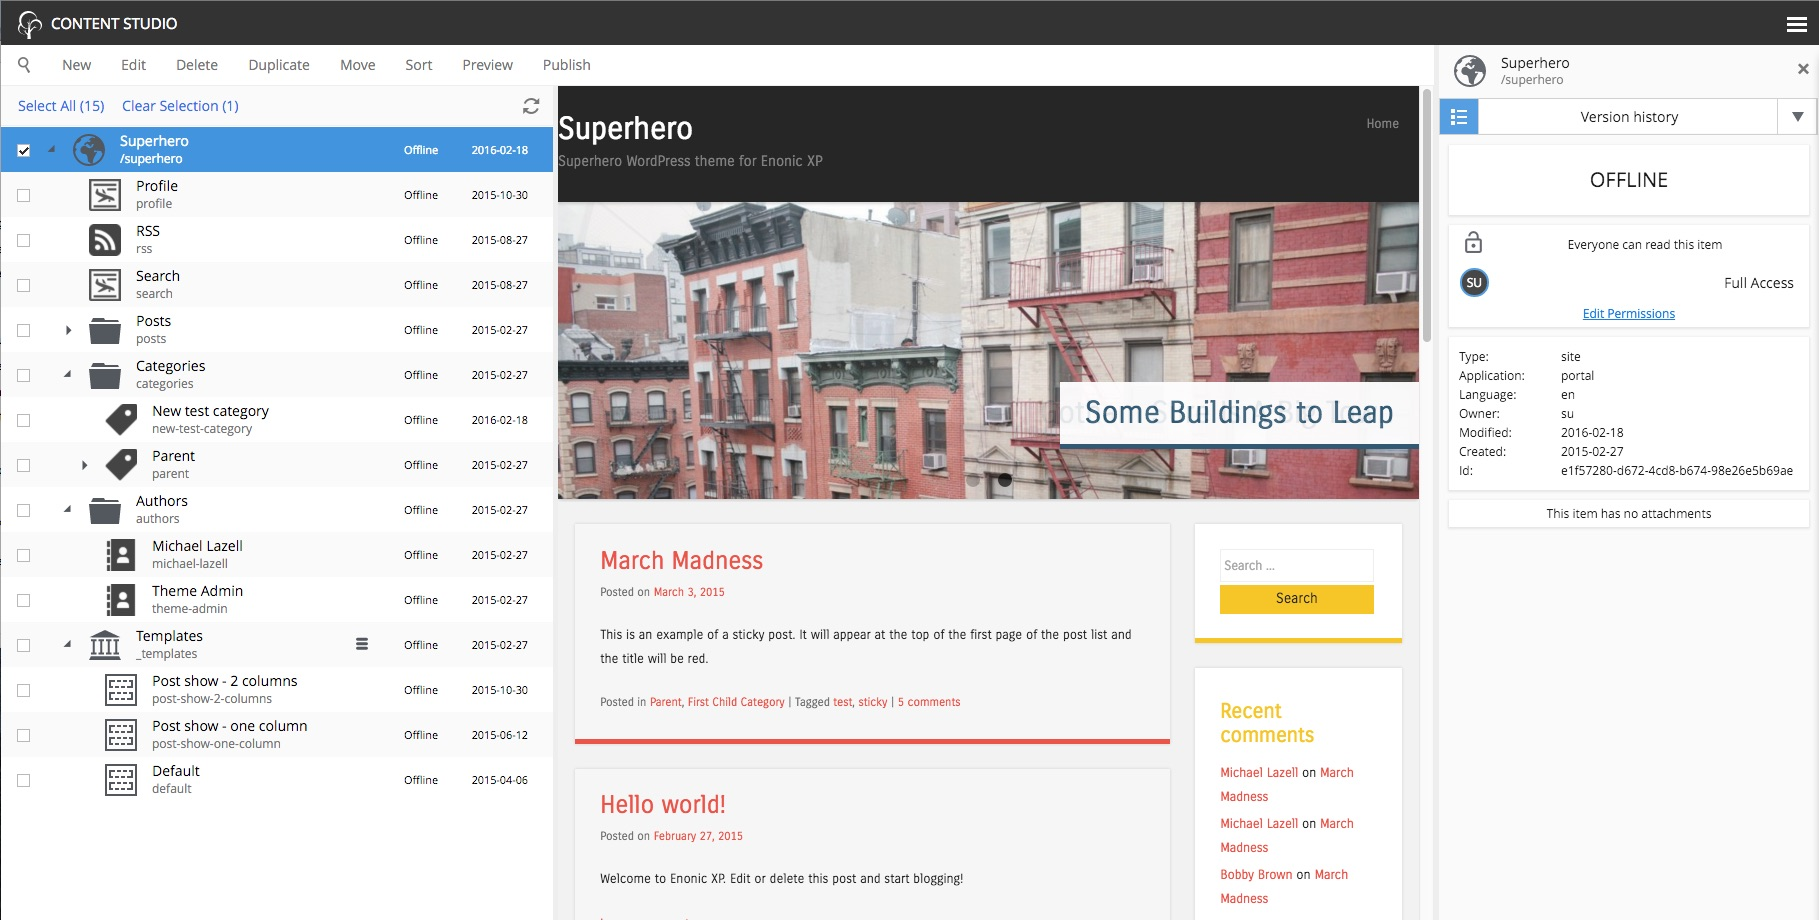
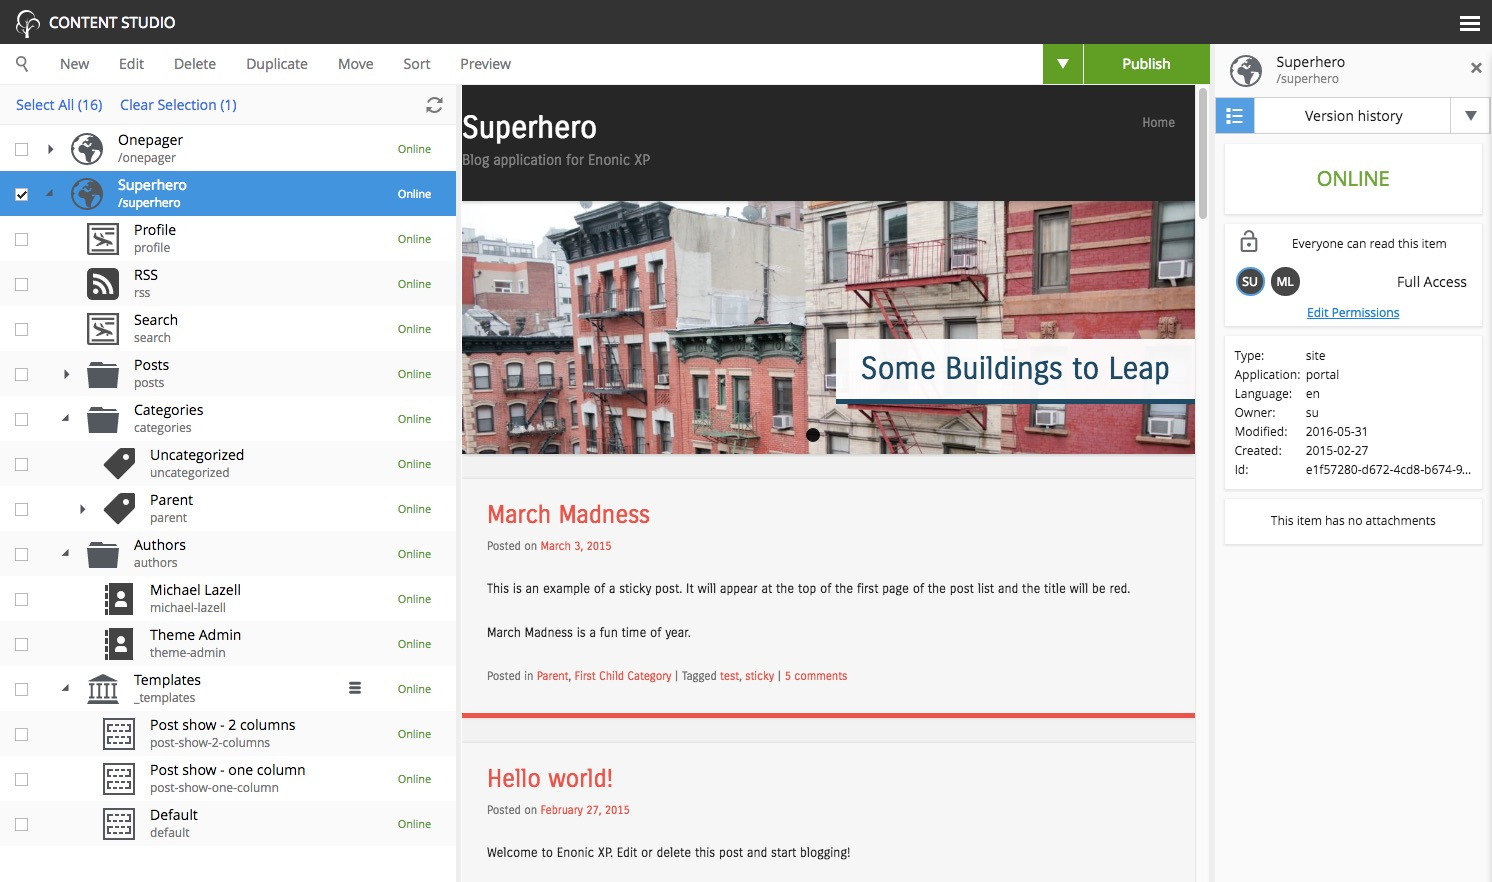
Update content studio publishing page and various images and minor changes.

diff --git a/doc/admintools/contentstudio/publish.rst b/doc/admintools/contentstudio/publish.rst
@@ -13,22 +13,22 @@ Draft and master branch
 -----------------------
 
 All content created with the Content Studio exists in the **draft** branch with the status **offline**. Content in the draft branch can be
-edited, changed, and previewed until it is ready to go online. When a content is published, it is copied from the **draft** branch to the
-**master** branch. Only content in the master branch can be accessed by others outside of the Content Studio, subject to the contents'
-security settings.
+edited, changed, and previewed until it is ready to go online. Every time a content is saved with changes, a new version is created. (See
+:ref:`version_history`) When a content is published, the active version is copied from the **draft** branch to the **master** branch. Only
+content in the master branch can be accessed by others outside of the Content Studio, subject to the contents' security settings.
 
 Content status
 --------------
 
 Published content will have the status **online** while content that has not yet been published will be **offline**. When changes to a
-published content are saved, its status will be **modified** and this content will need to be published again before the changes will be
-visible outside of the Content Studio. When a published content is "deleted" then its status will be **pending delete** and it will still be
-visible outside of the Content Studio. Content that is pending delete must be published before it is actually removed from the master
-branch.
+published content are saved, the new version becomes the active version but the version that is online is not changed. The status of the
+new active version will be **modified** and this content will need to be published again before the changes will be visible outside of the
+Content Studio.
 
-.. warning:: Once a content is published, it cannot be taken offline without deleting it. If deleting the content is not a good option, it
-   could be moved to an archive folder outside of the site content. Or the content security could be altered to make it visible only to
-   administrators.
+When a published content is "deleted", the "Delete item" dialogue offers a checkbox to "Instantly delete published items". If this box is
+not checked then the content's status will be **pending delete** and it will still be visible outside of the Content Studio. Content that is
+pending delete must be published or "instantly deleted" before it is actually removed from the master branch.
+
 
 Publishing wizard
 -----------------
@@ -42,4 +42,13 @@ with the selected content are listed in the publishing wizard.
 .. image:: images/publishing-wizard.jpg
 
 If the selected content has children then these items can be included by checking the box labeled "Include child items". The total number of
-items that will be published is displayed on the **Publish** button.
+items that will be published is displayed on the **Publish** button. The green "Publish" button has a menu option for "Publish tree" which
+simply opens the dialogue with the "Include child items" box checked.
+
+Previously published content can be taken offline with the "Unpublish" feature. The "Unpublish" dialogue can be opened from the Publish menu
+in the toolbar or by right-clicking the content in the tree grid and selecting "Unpublish" from the context menu. All of the content's
+children will be listed and unpublished along with the selected content. The total number of content items that will be taken offline will
+appear in parenthesis in the red "Unpublish" button at the bottom of the dialogue.
+
+.. image:: images/unpublish-dialogue.jpg
+

diff --git a/doc/admintools/contentstudio/inspection-panel.rst b/doc/admintools/contentstudio/inspection-panel.rst
@@ -20,7 +20,8 @@ placeholder.
 For example, to add a part component called "Categories" to the page, simply click the part icon (puzzle piece) and drag it to a region in
 the page editor. A red circle appears when the component is dragged over an area where it cannot be dropped. A green checkbox appears when
 dragged over valid locations and a blue box shows where the component will land. Once the part placeholder is dropped, it will have a
-combo-box where the "Categories" part can be selected from the list.
+combo-box where the "Categories" part can be selected from the list. When a component placeholder is selected, the inspection panel will
+also show a combo-box with a list of available part components.
 
 .. image:: images/inspect-insert.jpg
 

diff --git a/doc/admintools/contentstudio/widgets.rst b/doc/admintools/contentstudio/widgets.rst
@@ -12,6 +12,8 @@ the top of the panel.
 
 There are two built-in widgets.
 
+.. _version_history:
+
 Version history
 ---------------
 
@@ -41,6 +43,8 @@ Restoring a version
 Any version can be set as the **active version** by selecting it and clicking the button labeled "Restore this version". Doing so will not
 change the published (online) version. This means that a previously published version of the content will remain online when a version is
 restored. A content must be published before the restored (active) version goes online.
+
+.. _dependencies_widget:
 
 Dependencies
 ------------

diff --git a/doc/admintools/contentstudio/page-editor.rst b/doc/admintools/contentstudio/page-editor.rst
@@ -18,5 +18,5 @@ options may include **Select parent**, **Insert** another component, **Inspect**
 .. image:: images/page-editor.jpg
 
 The page editor will be closed when the type of content being edited does not have a supporting page template. However, it can be opened and
-a dropdown selector will appear which can be used add a **page component** to render a page. Read more about this in the
+a dropdown selector will appear which can be used to add a **page component** to render a page. Read more about this in the
 :ref:`page_templates` section.
